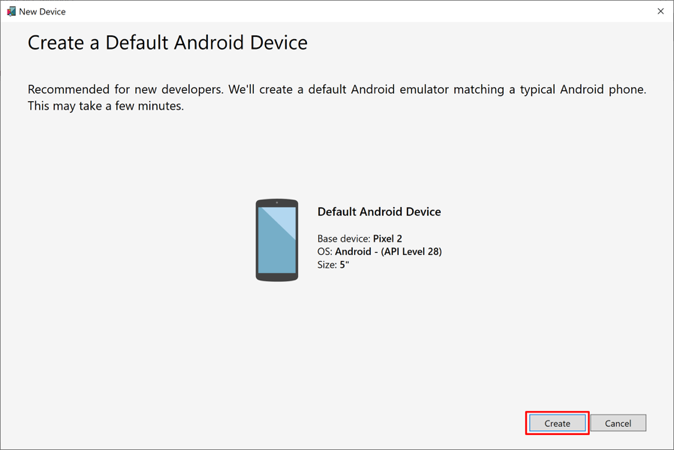
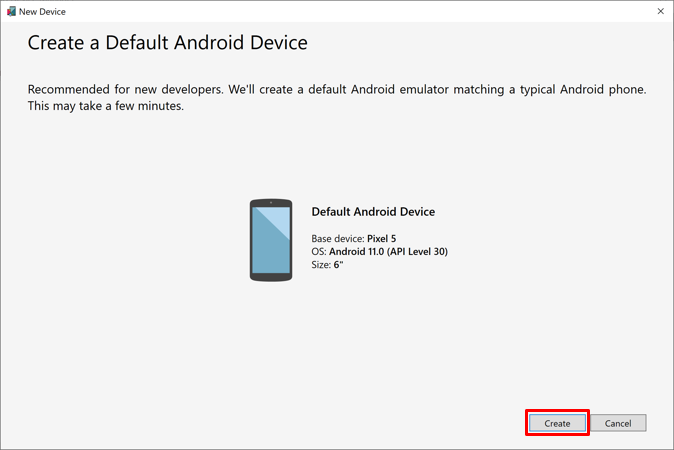
Screenshot updates.

Changed region(s): [[0.3427, 0.4356, 0.6543, 0.6222], [0.7789, 0.9022, 0.8724, 0.9644]]

diff --git a/docs/get-started/first-app.md b/docs/get-started/first-app.md
@@ -74,7 +74,7 @@ In this tutorial, you'll create your first .NET MAUI app in Visual Studio 2022, 
 
 1. In the Visual Studio toolbar, press the **Pixel 5 - API 30 (Android 11.0 - API 30)** button to build and run the app:
 
-    :::image type="content" source="media/first-app/pixel2-api28.png" alt-text="Pixel 2 API 28 emulator button.":::
+    :::image type="content" source="media/first-app/pixel5-api30.png" alt-text="Pixel 5 API 30 emulator button.":::
 
    Visual Studio will start the Android emulator, build the app, and deploy the app to the emulator.
 
